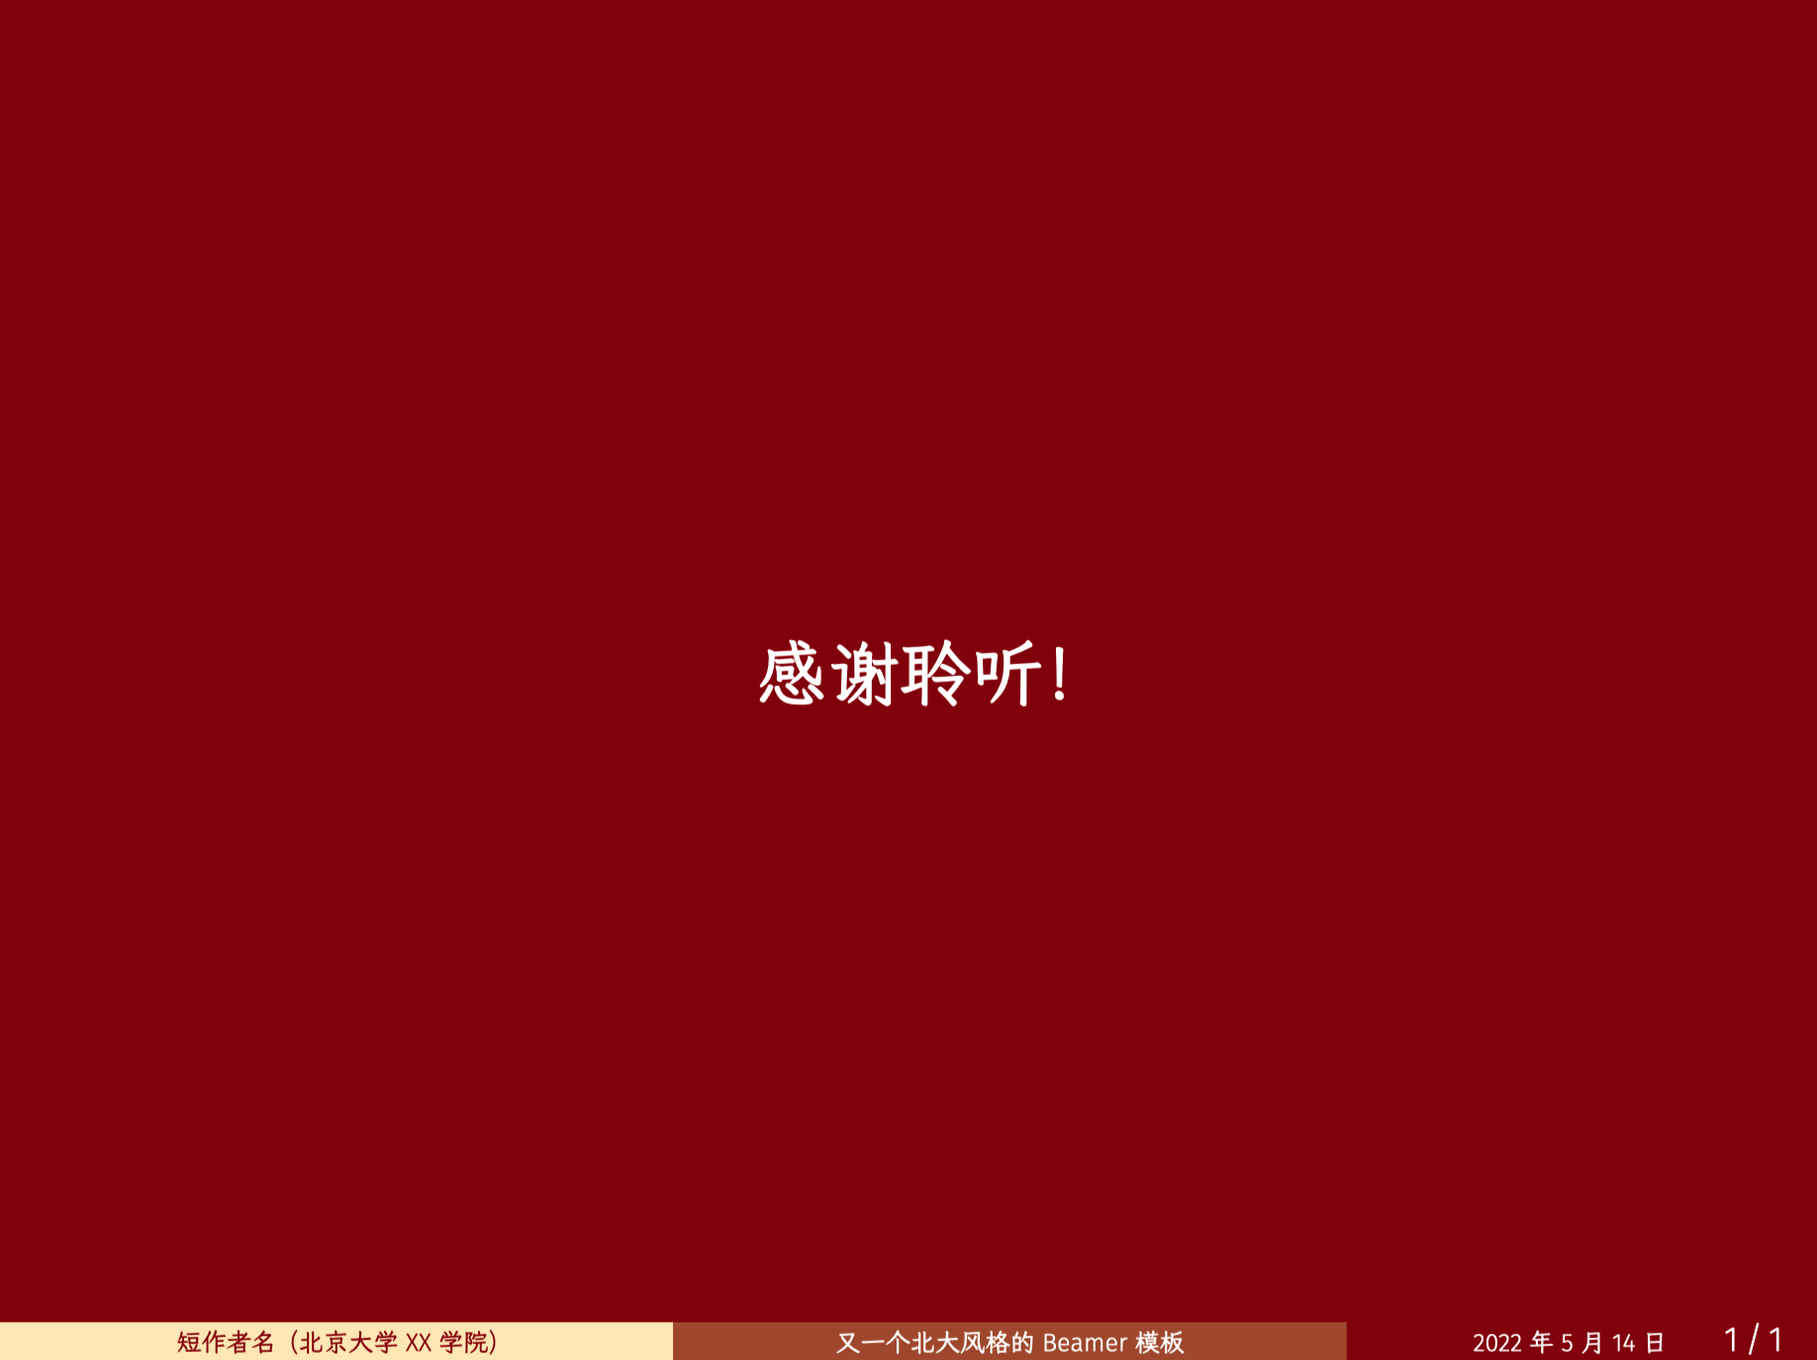
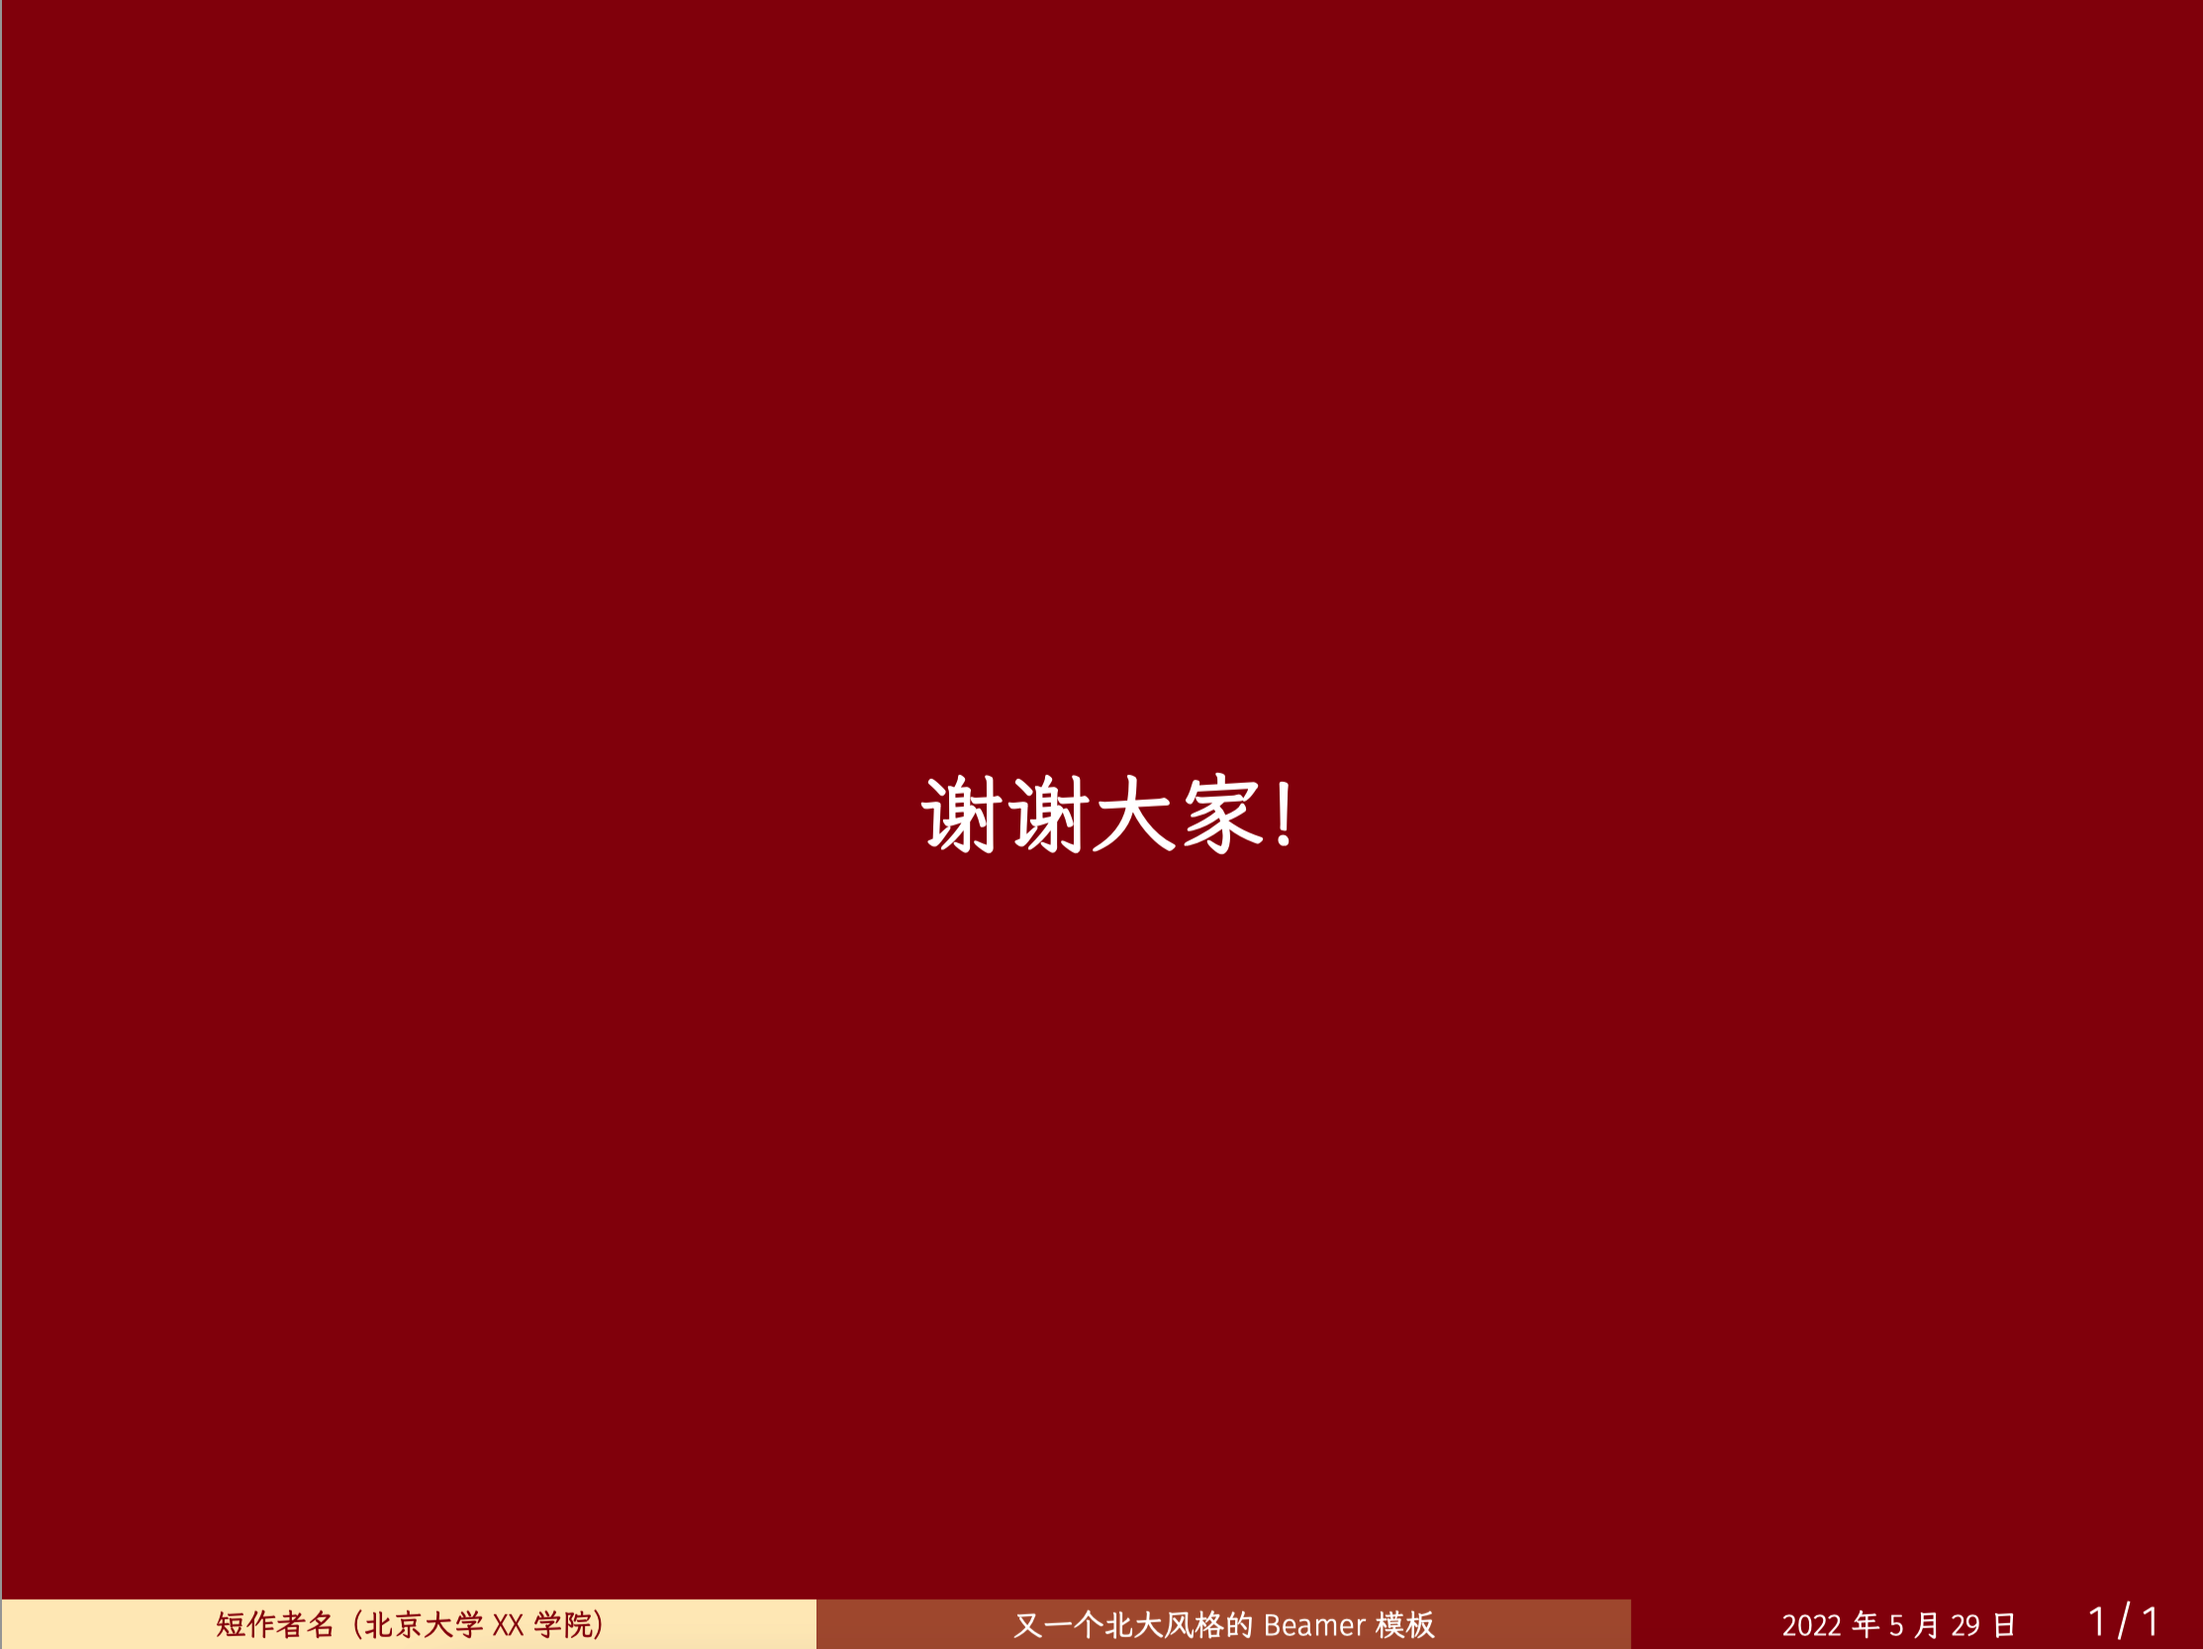
感谢聆听是谦词，使用谢谢大家代替

diff --git a/main-cn.tex b/main-cn.tex
@@ -37,6 +37,6 @@
   
   
   \begin{frame}[standout]
-    感谢聆听！
+    谢谢大家！
   \end{frame}
 \end{document}
